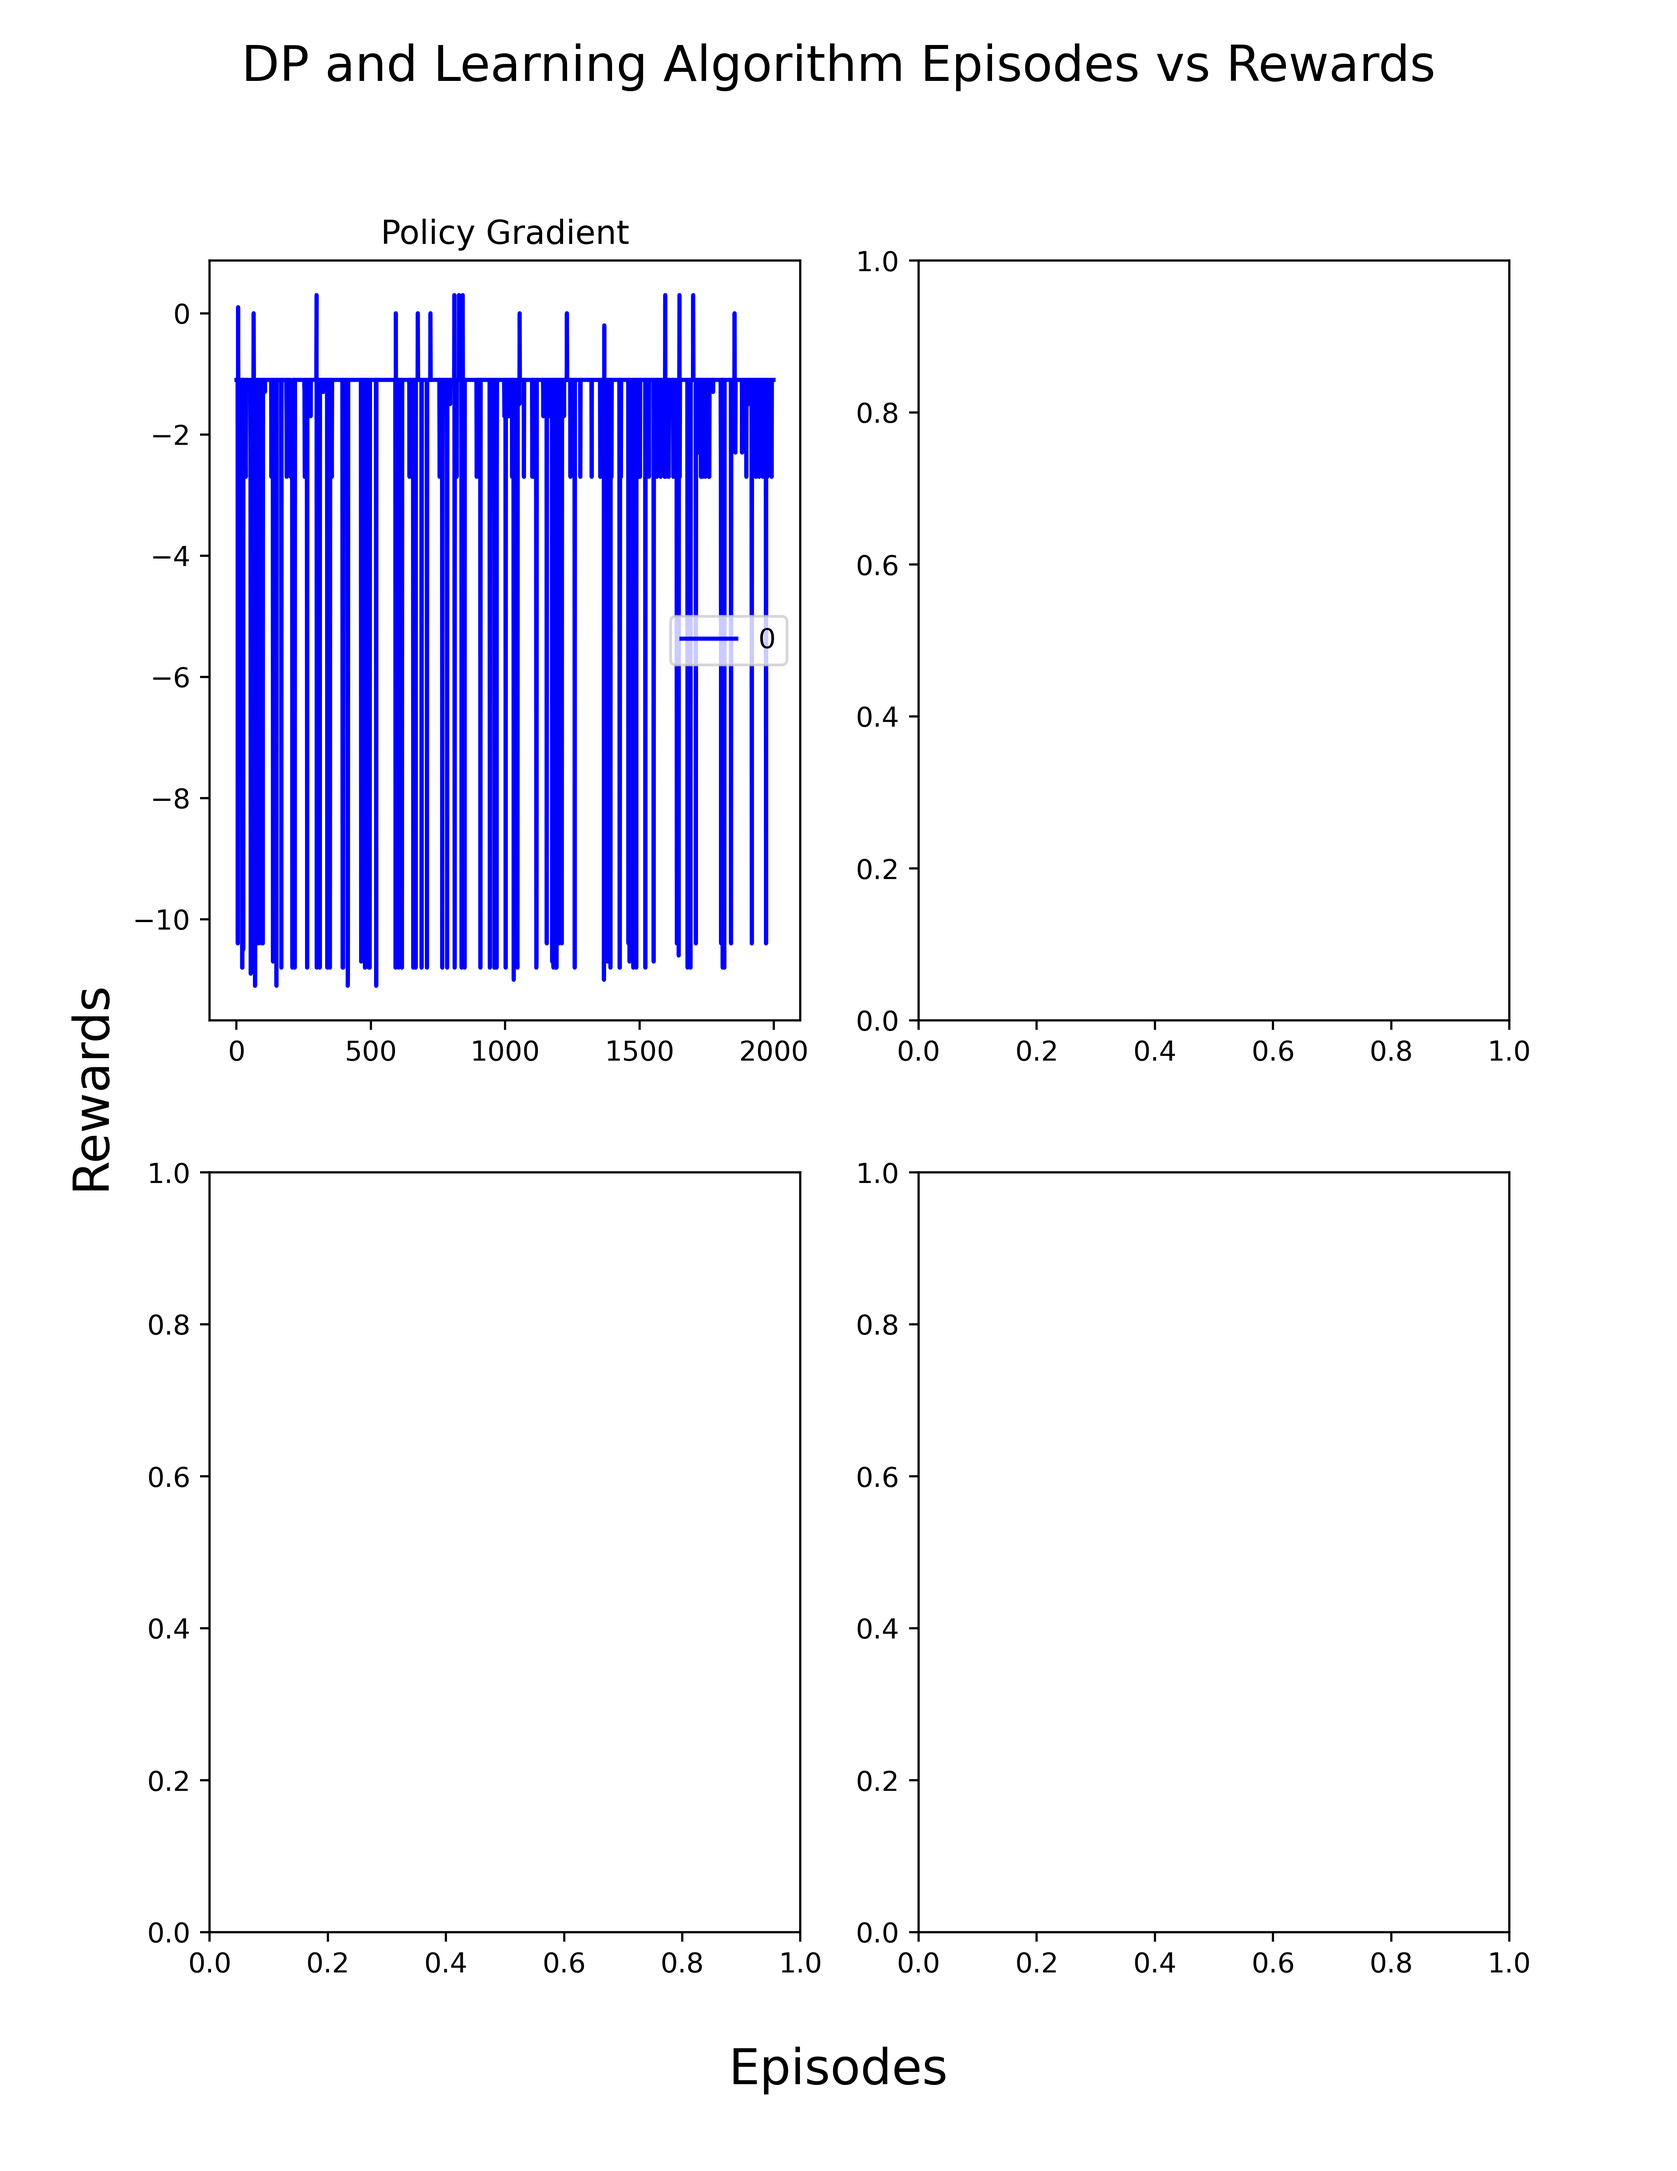
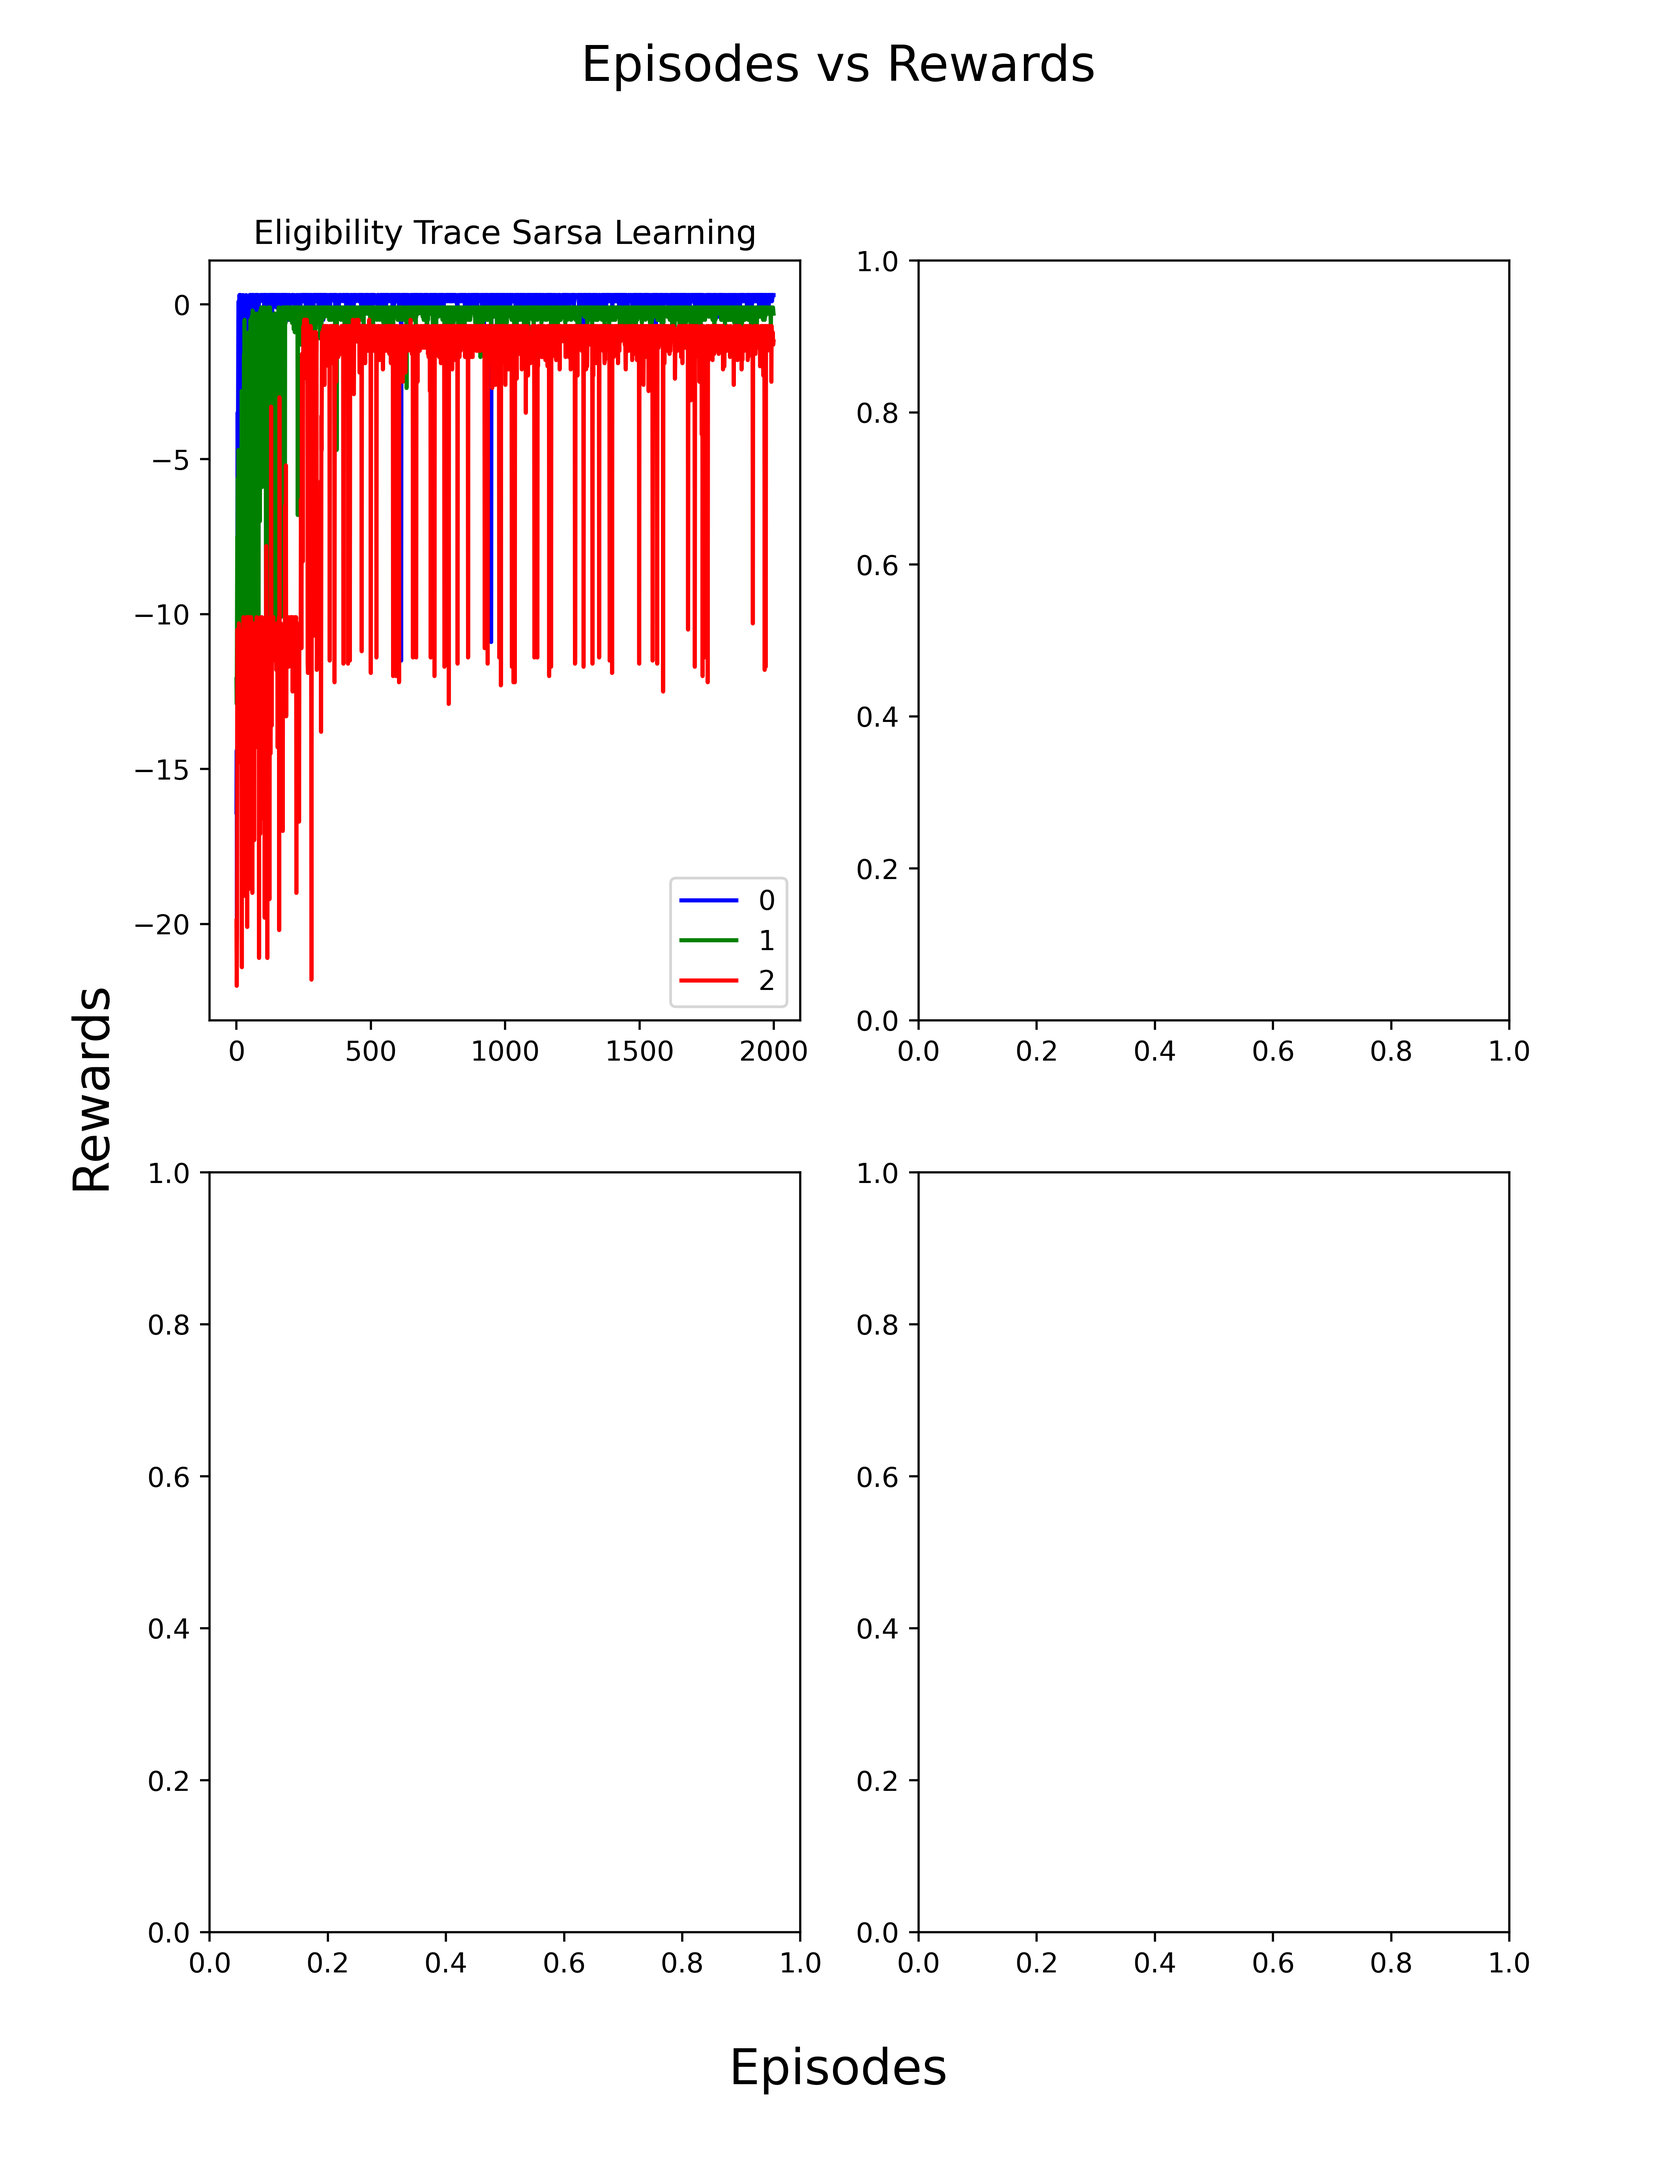
eligibility trase sarsa learning

diff --git a/assignments/grid_world/monte_carlo/MC_policy_gradient.py b/assignments/grid_world/monte_carlo/MC_policy_gradient.py
@@ -1,26 +1,24 @@
 
 from MC_brain import MonteCarloAlgorithm
-import tensorflow as tf
 from ast import literal_eval
-from tensorflow import keras
 import numpy as np
-from tensorflow.keras.layers import Dense
+from math import exp
 
 
 class PolicyGradientLearning(MonteCarloAlgorithm):
     def __init__(self, actions,
                 num_features=100,  # number of grids
-                learning_rate=0.001,
-                discount_rate=1,
+                learning_rate=0.015,
+                discount_rate=0.99,
                 debug=True):
-
         self.display_name = "Policy Gradient Reinforce"
         self.num_actions = len(actions)  # actions 0-3
         self.num_features = num_features
+        self.theta = np.zeros(self.num_features*self.num_actions)
+
         self.lr = learning_rate
         self.dr = discount_rate
         self.debug = debug
-        # self.build_neural_network()
 
 
 
@@ -32,18 +30,11 @@ class PolicyGradientLearning(MonteCarloAlgorithm):
             # Gₜ = Rₜ₊₁ + γ * Gₜ₊₁
             G = r + self.dr * G
             discounted_rewards[i] = G
-
-        discounted_rewards = np.array(discounted_rewards)
-        # Stabilize the rewards
-        # Source: https://datascience.stackexchange.com/questions/20098/why-do-we-normalize-the-discounted-rewards-when-doing-policy-gradient-reinforcem
-        discounted_rewards -= np.mean(discounted_rewards)
-        discounted_rewards /= np.std(discounted_rewards)
-        return discounted_rewards
+        return np.array(discounted_rewards)
 
     def choose_action(self, observation):
-        action_probs = self.model.predict(
-            self.features(observation)).flatten()
-        return np.random.choice(self.num_actions, p=action_probs)
+        action_prob = [ self.policy(a, observation) for a in range(self.num_actions) ]
+        return np.random.choice(range(self.num_actions), p = action_prob)
 
     def learn(self, s, a, r, s_):
         return s_, self.choose_action(s_)
@@ -53,30 +44,18 @@ class PolicyGradientLearning(MonteCarloAlgorithm):
         x = int((state[0]-5.0)//40)
         y = int((state[1]-5)//40)
         # One Hot Encoding
-        features = np.zeros(self.num_actions*self.num_actions)
+        features = np.zeros(self.num_features*self.num_actions)
         features[(y*10 + x) + self.num_actions*action] = 1
         return features
 
     def update(self, states, actions, rewards):
-        pass
+        discounted_rewards = self.discounted_rewards(rewards)
+        for state, action, reward in zip(states,actions,rewards):
+            grad_ln_pi = self.features(state, action) - sum([self.policy(b,state)*self.features(state,b) for b in range(self.num_actions)])
+            self.theta = self.theta + self.lr*reward * grad_ln_pi
 
-    # Neural Net
-    # def update(self, states, actions, rewards):
-    #     y = self.discounted_rewards(rewards)
-
-    #     x = np.array([self.features(state)
-    #                   for state, action in zip(states, actions)])
-    #     self.model.fit(x, y, epochs=1000, batch_size=1000, verbose=0)
-    #     _, accuracy = self.model.evaluate(x, y, verbose=1)
-    #     print('Accuracy: %.2f' % (accuracy*100))
-
-    # def build_neural_network(self):
-    #     self.model = keras.Sequential()
-
-    #     self.model.add(
-    #         Dense(50, input_dim=2, activation=tf.nn.tanh))
-    #     self.model.add(Dense(4, activation=tf.nn.softmax))
-
-    #     opt = keras.optimizers.SGD(learning_rate=self.lr)
-    #     self.model.compile(loss='mean_squared_error',
-    #                        optimizer=opt, metrics=['accuracy'])
+    def policy(self, action, observation):
+        def h(a):
+            return exp(self.theta @ self.features(observation,a))
+        out = h(action) / sum([h(a) for a in range(self.num_actions)])
+        return out

diff --git a/assignments/grid_world/sim.py b/assignments/grid_world/sim.py
@@ -1,5 +1,6 @@
 import numpy as np
 import threading
+import sys
 
 from run_main import update, debug
 from maze_env import Maze
@@ -19,10 +20,10 @@ from dynamic_programming.DP_brain_VI import ValueIteration
 
 
 # showRender = False
-# episodes = 2000
+episodes = 2000
 # renderEveryNth = 10000
 # printEveryNth = 10000
-do_plot_rewards = False
+do_plot_rewards = True
 
 # Task Specifications
 
@@ -54,7 +55,7 @@ def do_algorithm(rl, task, env):
     data = {}
     env.after(10, update(env, rl, data,
                          showRender=True,
-                         episodes=10000,
+                         episodes=episodes,
                          renderEveryNth=100,
                          printEveryNth=100,
                          ))
@@ -97,6 +98,11 @@ def double_q_learning(task):
     rl = DoubleQLearning(list(range(env.n_actions)))
     do_algorithm(rl, task, env)
 
+def eligibility_trace_learning(task):
+    env = Maze(agentXY, goalXY, tasks[task][0], tasks[task][1])
+    rl = EligibilityTraceSarsaLearning(list(range(env.n_actions)))
+    do_algorithm(rl, task, env)
+
 
 def policy_gradient_learning(task):
     env = Maze(agentXY, goalXY, tasks[task][0], tasks[task][1])
@@ -104,10 +110,9 @@ def policy_gradient_learning(task):
     do_algorithm(rl, task, env)
 
 
-algos = [policy_gradient_learning]
+# algos = [policy_gradient_learning]
 
-# algos = [value_iteration, policy_iteration, sarsa_learning,
-#          expected_sarsa_learning, double_q_learning]
+algos = [eligibility_trace_learning, double_q_learning, policy_gradient_learning]
 
 
 def run(method, task_num):
@@ -122,11 +127,14 @@ def run(method, task_num):
 
 
 threads, sem = [], threading.Semaphore()
-
-for algo in algos:
-    # threads.append(threading.Thread(target=algo, args=(0,)))
+if len(sys.argv) > 1:
+    algo = algos[int(sys.argv[1])]
     for task_num, task in enumerate(tasks):
         threads.append(threading.Thread(target=algo, args=(task_num,)))
+else:   
+    for algo in algos:
+        for task_num, task in enumerate(tasks):
+            threads.append(threading.Thread(target=algo, args=(task_num,)))
 
 for i, thread in enumerate(threads):
     debug(1, f'Starting thread {i}')
@@ -143,6 +151,6 @@ for task_num, experiment_list in experiments.items():
 
 if(do_plot_rewards):
     # Simple plot of return for each episode and algorithm, you can make more informative plots
-    plot_rewards(experiments)
-    plot_time(experiments)
-    plot_individual_plots(experiments)
+    if len(sys.argv) > 1:
+        plot_rewards(experiments, algos[int(sys.argv[1])].__name__)
+        plot_individual_plots(experiments)

diff --git a/assignments/grid_world/learning_algorithms/RL_brain_eligibility_trace_sarsa.py b/assignments/grid_world/learning_algorithms/RL_brain_eligibility_trace_sarsa.py
@@ -7,36 +7,30 @@ class EligibilityTraceSarsaLearning():
     def __init__(self, actions,
                  learning_rate=0.01,
                  discount_rate=0.9,
-                 decay_rate=0.5,
-                 alpha=0.1,
-                 epsilon=0.1,
-                 debug=True,):
+                 decay_rate=0.9,
+                 epsilon=0.1):
 
         self.actions = actions
         self.discount_r = discount_rate
         self.decay_r = decay_rate
-        self.step_size = alpha
+        self.learning_r = learning_rate
         self.epsilon = epsilon
-        self.debug = debug
 
         self.display_name = "Eligibility Trace Sarsa Learning"
         self.q = {}  # Q table
         self.e = {}  # Eligibility Trace
 
     def lazy_table_init(self, observation):
-        self.q.setdefault(observation, {})
-        self.e.setdefault(observation, {})
-        for action in self.actions:
-            self.e[observation].setdefault(action, 0)
-            self.q[observation].setdefault(action, 0)
+        self.q[observation] = {action:0 for action in self.actions} if observation not in self.q else self.q[observation]
+        self.e[observation] = {action:0 for action in self.actions} if observation not in self.e else self.e[observation]
 
     def choose_action(self, observation):
         self.lazy_table_init(observation)
 
         if np.random.uniform() <= (1-self.epsilon):  # Greedy
-            return (max(self.q[observation].items(), key=lambda x: x[1]))[0]
+            return (max(self.q[observation].keys(), key=lambda x: self.q[observation][x]))
         else:  # Epsilon Greedy
-            return np.random.choice(np.array(self.actions))
+            return np.random.choice(self.actions)
 
     def learn(self, s, a, r, s_):
         a_ = self.choose_action(s_)
@@ -45,18 +39,8 @@ class EligibilityTraceSarsaLearning():
         # TODO: Can do this easily via np arrays
         for state in self.q.keys():
             for action in self.q[state]:
-                self.q[state][action] += self.step_size * \
+                self.q[state][action] += self.learning_r * \
                     td_error*self.e[state][action]
                 self.e[state][action] = self.discount_r * \
                     self.decay_r*self.e[state][action]
         return s_, a_
-
-
-if __name__ == "__main__":
-    agentXY = [0, 0]
-    goalXY = [4, 4]
-
-    wall_shape = np.array([[2, 2], [3, 6]])
-    pits = np.array([[6, 3], [1, 4]])
-    env = maze_env.Maze(agentXY, goalXY, wall_shape, pits)
-    rl_algo = EligibilityTraceSarsaLearning(list(range(env.n_actions)))

diff --git a/assignments/grid_world/plots.py b/assignments/grid_world/plots.py
@@ -4,7 +4,7 @@ import numpy as np
 PLOT_DIR = "./plots/"
 
 
-def plot_rewards(task_experiments):
+def plot_rewards(task_experiments, title=""):
     fig, axs = plt.subplots(2, 2)
     color_list = ['blue', 'green', 'red', 'black', 'magenta']
     label_list = []
@@ -23,14 +23,14 @@ def plot_rewards(task_experiments):
     fig.text(0.5, 0.04, 'Episodes', ha='center', fontsize=18)
     fig.text(0.04, 0.5, 'Rewards', va='center',
              rotation='vertical', fontsize=18)
-    fig.suptitle('DP and Learning Algorithm Episodes vs Rewards', fontsize=18)
+    fig.suptitle('Episodes vs Rewards', fontsize=18)
 
     fig.set_size_inches((8.5, 11), forward=False)
-    fig.savefig(f"{PLOT_DIR}reward_graph_by_task.png", dpi=500)
+    fig.savefig(f"{PLOT_DIR}{title}reward_graph_by_task.png", dpi=500)
     # plt.show()
 
 
-def plot_individual_plots(task_experiments):
+def plot_individual_plots(task_experiments, title=""):
     fig, axs = plt.subplots(2, 2)
     color_list = ['blue', 'green', 'red', 'black', 'magenta']
     axs_keys = {0: (0, 0), 1: (0, 1), 2: (1, 0), 3: (1, 1)}
@@ -57,10 +57,10 @@ def plot_individual_plots(task_experiments):
     fig.text(0.5, 0.04, 'Episodes', ha='center', fontsize=18)
     fig.text(0.04, 0.5, 'Rewards', va='center',
              rotation='vertical', fontsize=18)
-    fig.suptitle('DP and Learning Algorithm Episodes vs Rewards', fontsize=18)
+    fig.suptitle('Episodes vs Rewards', fontsize=18)
 
     fig.set_size_inches((8.5, 11), forward=False)
-    fig.savefig(f"{PLOT_DIR}reward_graph_by_algorithm.png", dpi=500)
+    fig.savefig(f"{PLOT_DIR}{title}reward_graph_by_algorithm.png", dpi=500)
 
 
 def plot_time(task_experiments):
